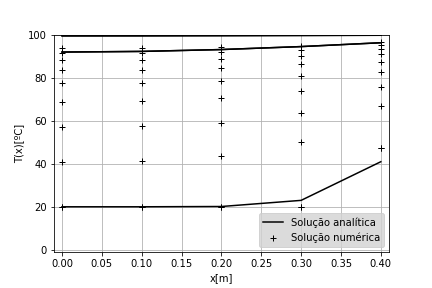
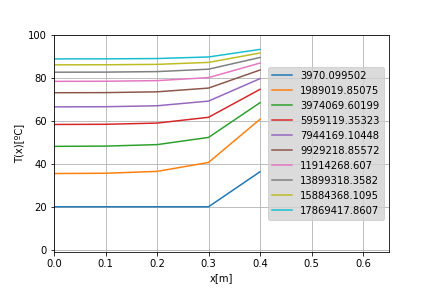
dados gerados

diff --git a/lib/source/ControlVolume.cpp b/lib/source/ControlVolume.cpp
@@ -138,7 +138,7 @@ ControlVolume::ControlVolume(TransientPlainWallInfo data):
 		this -> temperatureField[i] = data.initialTemperature;
 	}
 
-	double diff = abs(oldTemperatureField[0] - this -> boundaries.getEndBoundaryCondition());
+	double difference = abs(temperatureField[0] - this -> boundaries.getEndBoundaryCondition());
 
 	int count = 0;
 
@@ -146,7 +146,7 @@ ControlVolume::ControlVolume(TransientPlainWallInfo data):
 	double deltaT = this -> timeStep;
 	cout << deltaT << endl;
 	ofstream pFile;
-	pFile.open("../results/third_task/controlVolume" << to_string(mesh.getNumberOfNodes()) << "VC.csv");
+	pFile.open("../results/third_task/controlVolume" + to_string(mesh.getNumberOfNodes()) + "VC.csv");
 	
 	pFile << fixed;
 	for (int i = 0; i < mesh.getNumberOfNodes(); ++i)
@@ -158,14 +158,13 @@ ControlVolume::ControlVolume(TransientPlainWallInfo data):
 			pFile << endl;
 	}
 	double timePosition = 0;
-	int countMax = 3000;
-	double maximumError = 1000;
+	int countMax = 5000;
 	double tol = data.tolerance;
-	double deltaTemperature = abs(data.initialTemperature - this -> boundaries.getEndBoundaryCondition());
-	while ((maximumError > tol)&&(count < countMax))
+	// double deltaTemperature = abs(data.initialTemperature - this -> boundaries.getEndBoundaryCondition());
+	// vector<double> errorsVec;
+	while ((difference > tol)&&(count < countMax))
 	{
 		timePosition += deltaT;
-		pFile << timePosition << ", ";
 		beginProcessorTransient(data,deltaT);
 		for (int i = 1; i < n - 1; i++)
 		{
@@ -197,33 +196,38 @@ ControlVolume::ControlVolume(TransientPlainWallInfo data):
 			this -> temperatureField[i] = solver[i];
 			// cout << this -> temperatureField[i] << endl;
 		}
-		if (count%100 == 0)
+		if (count%500 == 0)
 		{
+			pFile << timePosition << ", ";
 			for (int i = 0; i < temperatureField.size(); ++i)
 			{
+				
 				pFile << temperatureField[i];
 				if(i!=temperatureField.size()-1)
 					pFile << ", ";
 				else		
-					pFile << endl;	
+					pFile << " ";	
 			}
+			pFile << endl;
 		}
 
-		vector<double> errorsVec;
-		for (int i = 0; i < n; ++i)
-		{
-			errorsVec.push_back((abs(temperatureField[i]-oldTemperatureField[i]))/deltaTemperature);
-		}
-		maximumError = *max_element(errorsVec.begin(),errorsVec.end());
-		
+		// errorsVec.clear();
+		// for (int i = 0; i < n; ++i)
+		// {
+		// 	errorsVec.push_back((abs(temperatureField[i]-oldTemperatureField[i]))/deltaTemperature);
+		// 	cout << count << ", " << errorsVec[i] << endl;
+		// }
+		// maximumError = *max_element(errorsVec.begin(),errorsVec.end());
+		difference = abs(temperatureField[0] - this -> boundaries.getEndBoundaryCondition());
 
 		++count;
+
 		
 	}
 	if (count < 3000)
-		cout << "Convergiu após " << count << "iterações" << endl;
+		cout << "Convergiu após " << count << " iterações" << endl;
 	else
-		cout << "Não convergiu nem com " << count << "iterações" << endl;
+		cout << "Não convergiu nem com " << count << " iterações" << endl;
 
 	pFile.close();
 	
@@ -438,6 +442,6 @@ void ControlVolume::getTimeStep(TransientPlainWallInfo data)
 {
 	double numerator = 0.5 * data.density * data.cp * this -> mesh.getDelta();
 	double denominator = (2*vectorK[0])/(this -> mesh.getDelta()) + this -> boundaries.getEndConvectionCoeficient() * data.transversalArea;
-	this -> timeStep = numerator/denominator - 1.0;
+	this -> timeStep = numerator/denominator - 10.0;
 }
 

diff --git a/lib/source/AnalyticalSolution.cpp b/lib/source/AnalyticalSolution.cpp
@@ -55,10 +55,13 @@ AnalyticalSolution::AnalyticalSolution(TransientPlainWallInfo data):
 	double To = 20;
 	double Tinf = 100;
 	double h = Bi*k/L;
-	double DELTAt=0;
+	double timePosition=0;
 	double alpha;
 	alpha = k/(ro*cp);
 	double wallLength = mesh.getWallLength();
+	getTimeStep(data);
+	cout << this -> timeStep << endl;
+
 	
 	vector<double> Tinicial;
 	vector<double>thetas;
@@ -78,14 +81,15 @@ AnalyticalSolution::AnalyticalSolution(TransientPlainWallInfo data):
 			pFile << endl;
 	}
 		
-	for(int i = 0; i < 872; i++)
+	for(int i = 0; i < 250; i++)
 	{
-		DELTAt += data.timeStep;
-		pFile << DELTAt << ", ";
+		timePosition += this -> timeStep;
 		
-		double Fo = alpha*DELTAt/pow(wallLength,2);
-		if (i%100 == 0)
+		
+		double Fo = alpha*timePosition/pow(wallLength,2);
+		if (i%50 == 0)
 		{
+			pFile << timePosition << ", ";
 			for(int j=0; j<mesh.getNumberOfNodes(); j++)
 			{
 				Tinicial.push_back(To);
@@ -96,8 +100,9 @@ AnalyticalSolution::AnalyticalSolution(TransientPlainWallInfo data):
 				if(j!=mesh.getNumberOfNodes()-1)
 					pFile << ", ";
 				else		
-					pFile << endl;
+					pFile << " ";
 			}
+			pFile << endl;
 		}
 		
 	}
@@ -290,3 +295,11 @@ double AnalyticalSolution::getSolucaoAnalitica(double Bi, double Fo, double xc, 
 	}
 	return (theta);
 }
+
+void AnalyticalSolution::getTimeStep(TransientPlainWallInfo data)
+{
+	double numerator = 0.5 * data.density * data.cp * this -> mesh.getDelta();
+	double denominator = (2*vectorK[0])/(this -> mesh.getDelta()) + this -> boundaries.getEndConvectionCoeficient() * data.transversalArea;
+	this -> timeStep = numerator/denominator - 10.0;
+}
+

diff --git a/python_files/trabalho_3/plot7VC.py b/python_files/trabalho_3/plot7VC.py
@@ -9,16 +9,16 @@ Created on Thu Apr  5 20:05:15 2018
 import numpy as np
 import matplotlib.pyplot as plt
 
-dataCV = np.loadtxt('../../results/third_task/controlVolume5VC.csv',dtype=float,delimiter=',',skiprows=0)
-dataAN = np.loadtxt('../../results/third_task/analytical_solution5.csv',dtype=float,delimiter=',',skiprows=0)
+dataCV = np.loadtxt('../../results/third_task/controlVolume7VC.csv',dtype=float,delimiter=',',skiprows=0)
+dataAN = np.loadtxt('../../results/third_task/analytical_solution7.csv',dtype=float,delimiter=',',skiprows=0)
 
-x = dataCV[0][1:6];
+x = dataCV[0][1:8];
 
 
 for i in range(len(dataCV)):
     if(i==0):
         continue
-    yCV = dataCV[i][1:6];       
+    yCV = dataCV[i][1:8];       
     plt.plot(x,yCV,'-',label = str(dataCV[i][0]));
 
 
@@ -26,9 +26,9 @@ plt.xlabel('x[m]')
 plt.ylabel('T(x)[ºC]')
 plt.grid(b=1)
 plt.axis([0,0.65,-1,100])
-legend = plt.legend(loc='lower right')
+legend = plt.legend(loc='center right')
 legend.get_frame().set_facecolor('#D3D3D3')
 
-plt.savefig('../../results/third_task/temperature_field_5VC.png')
+plt.savefig('../../results/third_task/temperature_field_7VC.png')
 
 

diff --git a/python_files/trabalho_3/plot5AN.py b/python_files/trabalho_3/plot5AN.py
@@ -1,7 +1,7 @@
 #!/usr/bin/env python3
 # -*- coding: utf-8 -*-
 """
-Created on Thu Apr  5 20:05:15 2018
+Created on Mon Apr 16 13:41:02 2018
 
 @author: tclavoratti
 """
@@ -12,23 +12,21 @@ import matplotlib.pyplot as plt
 dataCV = np.loadtxt('../../results/third_task/controlVolume5VC.csv',dtype=float,delimiter=',',skiprows=0)
 dataAN = np.loadtxt('../../results/third_task/analytical_solution5.csv',dtype=float,delimiter=',',skiprows=0)
 
-x = dataCV[0][1:6];
+x = dataAN[0][1:6];
 
 
-for i in range(len(dataCV)):
+for i in range(len(dataAN)):
     if(i==0):
         continue
-    yCV = dataCV[i][1:6];       
-    plt.plot(x,yCV,'-',label = str(dataCV[i][0]));
+    yAN = dataAN[i][1:6];       
+    plt.plot(x,yAN,'-',label = str(dataAN[i][0]));
 
 
 plt.xlabel('x[m]')
 plt.ylabel('T(x)[ºC]')
 plt.grid(b=1)
-plt.axis([0,0.65,-1,100])
-legend = plt.legend(loc='lower right')
+plt.axis([0,0.55,-1,100])
+legend = plt.legend(loc='center right')
 legend.get_frame().set_facecolor('#D3D3D3')
 
-plt.savefig('../../results/third_task/temperature_field_5VC.png')
-
-
+plt.savefig('../../results/third_task/temperature_field_5AN.png')

diff --git a/python_files/trabalho_3/plot7AN.py b/python_files/trabalho_3/plot7AN.py
@@ -1,7 +1,7 @@
 #!/usr/bin/env python3
 # -*- coding: utf-8 -*-
 """
-Created on Thu Apr  5 20:05:15 2018
+Created on Mon Apr 16 13:41:02 2018
 
 @author: tclavoratti
 """
@@ -12,23 +12,21 @@ import matplotlib.pyplot as plt
 dataCV = np.loadtxt('../../results/third_task/controlVolume5VC.csv',dtype=float,delimiter=',',skiprows=0)
 dataAN = np.loadtxt('../../results/third_task/analytical_solution5.csv',dtype=float,delimiter=',',skiprows=0)
 
-x = dataCV[0][1:6];
+x = dataAN[0][1:8];
 
 
-for i in range(len(dataCV)):
+for i in range(len(dataAN)):
     if(i==0):
         continue
-    yCV = dataCV[i][1:6];       
-    plt.plot(x,yCV,'-',label = str(dataCV[i][0]));
+    yAN = dataAN[i][1:8];       
+    plt.plot(x,yAN,'-',label = str(dataAN[i][0]));
 
 
 plt.xlabel('x[m]')
 plt.ylabel('T(x)[ºC]')
 plt.grid(b=1)
-plt.axis([0,0.65,-1,100])
-legend = plt.legend(loc='lower right')
+plt.axis([0,0.55,-1,100])
+legend = plt.legend(loc='center right')
 legend.get_frame().set_facecolor('#D3D3D3')
 
-plt.savefig('../../results/third_task/temperature_field_5VC.png')
-
-
+plt.savefig('../../results/third_task/temperature_field_5AN.png')

diff --git a/lib/include/AnalyticalSolution.h b/lib/include/AnalyticalSolution.h
@@ -34,6 +34,7 @@ private:
 	Boundary boundaries;
 	ThermalConduction vectorK;
 	double biotNumber;
+	double timeStep;
 
 	double evalFirstProblemTemperatureLaw(double position);
 	double evalSecondProblemTemperatureLaw(double position, DoublePlainWallInfo data);
@@ -52,6 +53,7 @@ private:
 	// extern PetscErrorCode function(SNES snes, Vec x, Vec f, void *ctx);
 	// extern PetscErrorCode dfunction(SNES snes, Vec x, Mat A, Mat B, void* ctx);
 	double solve(double initialGuess);
+	void getTimeStep(TransientPlainWallInfo data);
 	
 			
 };

diff --git a/python_files/trabalho_3/plot5VC.py b/python_files/trabalho_3/plot5VC.py
@@ -26,7 +26,7 @@ plt.xlabel('x[m]')
 plt.ylabel('T(x)[ºC]')
 plt.grid(b=1)
 plt.axis([0,0.65,-1,100])
-legend = plt.legend(loc='lower right')
+legend = plt.legend(loc='center right')
 legend.get_frame().set_facecolor('#D3D3D3')
 
 plt.savefig('../../results/third_task/temperature_field_5VC.png')

diff --git a/app_trabalho_3/source/main.cpp b/app_trabalho_3/source/main.cpp
@@ -24,7 +24,7 @@ int main()
 		info.density = 2000;
 		info.cp = 700;
 		info.biotNumber = 2.05;
-		info.timeStep = 4200;
+		info.tolerance = 1;
 		info.initialTemperature = 20;
 		info.transversalArea = 1;
 		info.beginBoundaryConditionType = PRESCRIBED_FLUX;

diff --git a/lib/include/info.h b/lib/include/info.h
@@ -51,7 +51,6 @@ struct TransientPlainWallInfo
 	double biotNumber;
 	double transversalArea;
 	int numberOfTimeSteps;
-	double timeStep;
 	double initialTemperature;
 	double tolerance;
 	BoundaryCondition beginBoundaryConditionType;
